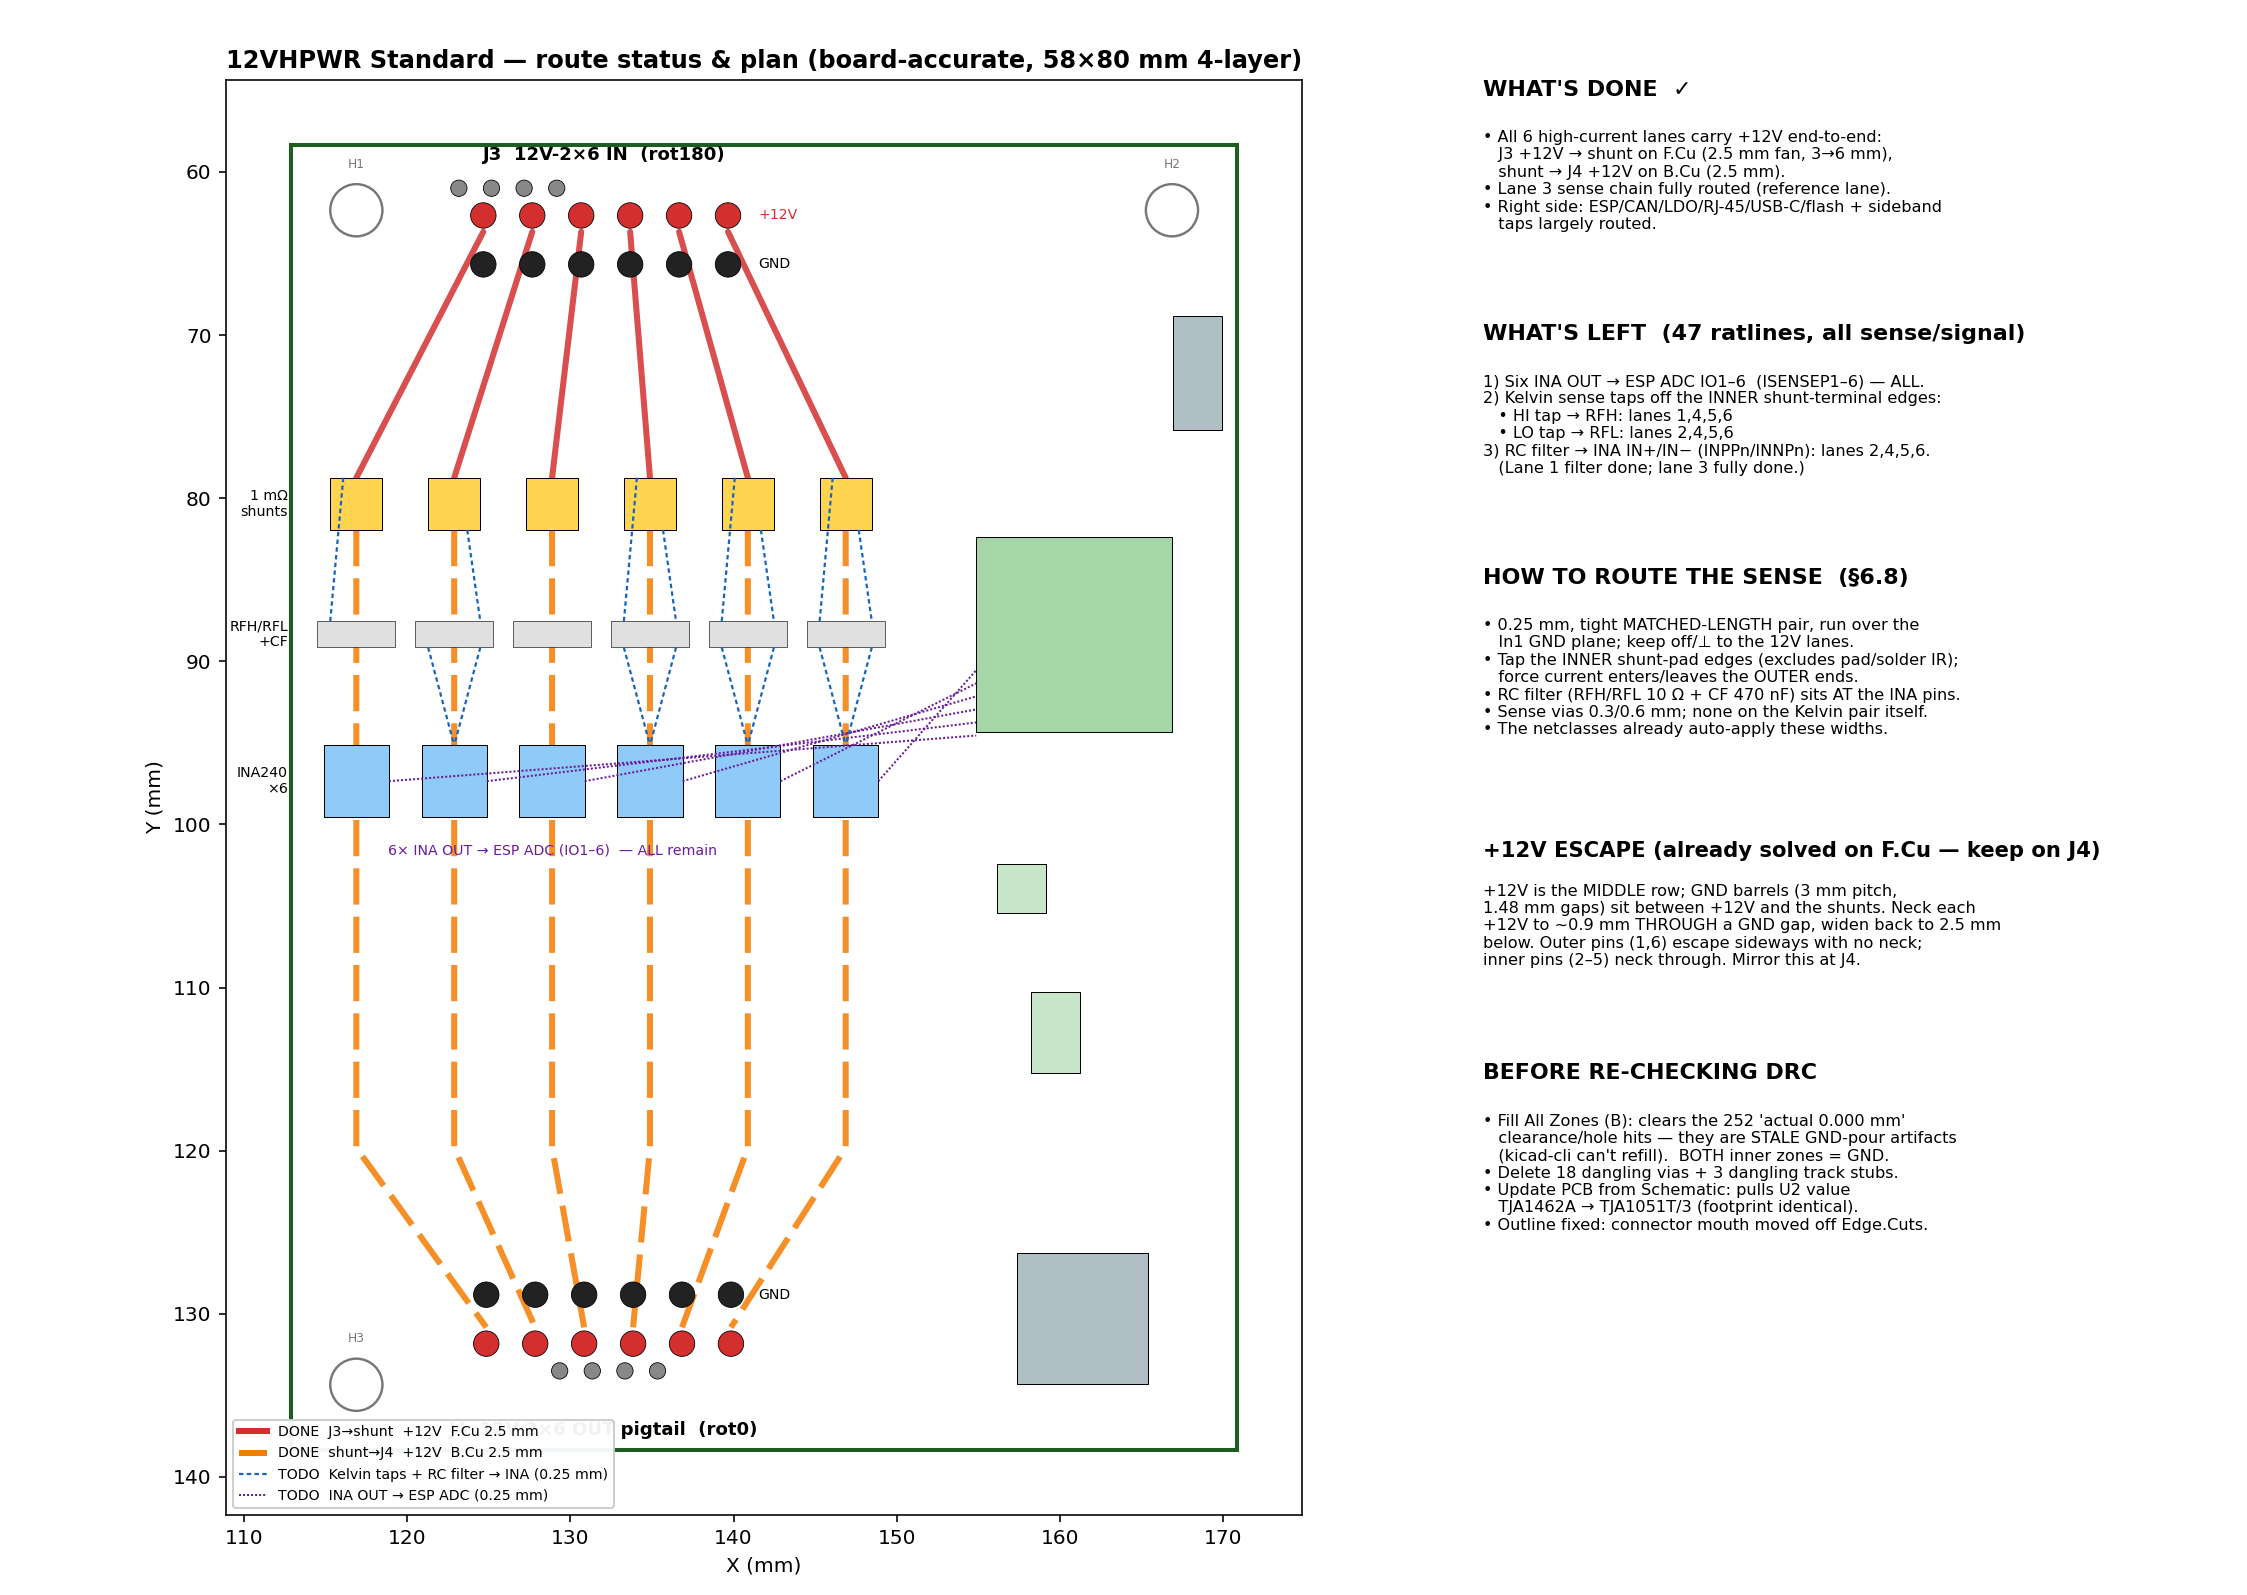
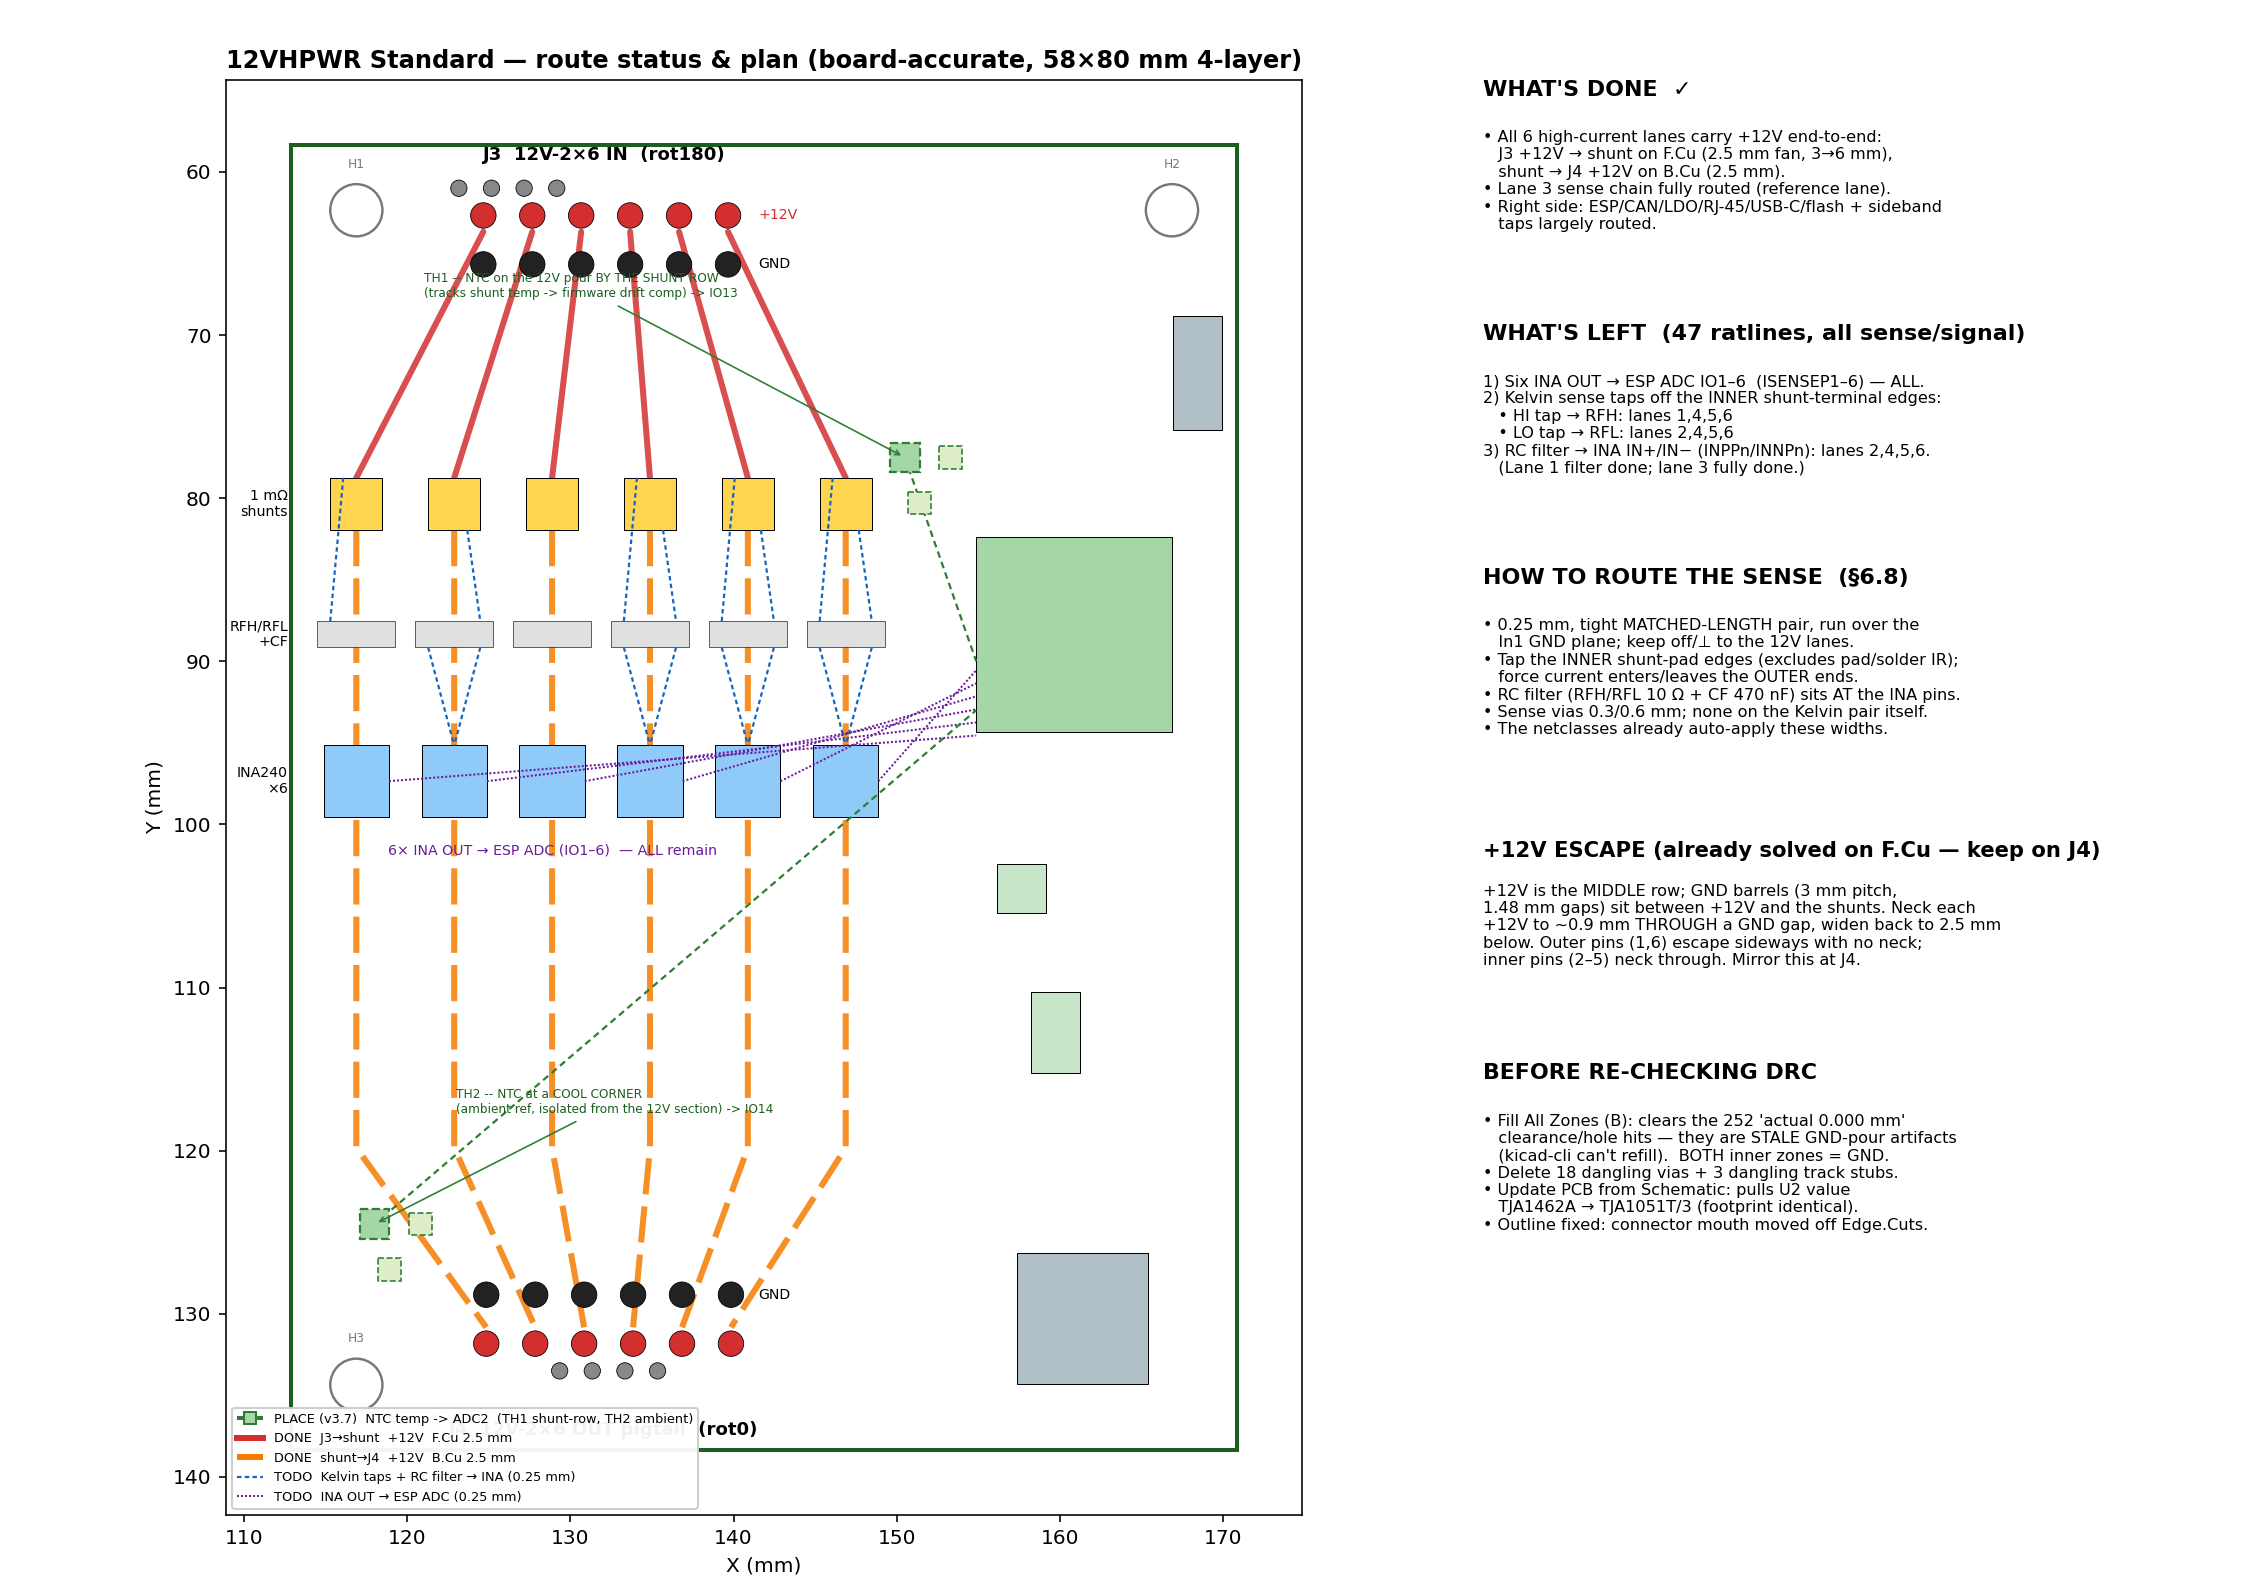
12VHPWR: add v3.7 NTC placement layer to the route/placement plan diagram
gen-hpwr-route-status.py now overlays the recommended (not-yet-placed) thermistor
placements on the plan: TH1 + R20 + C20 on the 12V pour by the shunt row (shunt-
temp drift comp) -> IO13, TH2 + R21 + C21 at a cool isolated corner (ambient) ->
IO14, with their ADC2 routes and callouts + a legend entry. Regenerated
12vhpwr-route-plan.png.

https://claude.ai/code/session_01JVK4H2BFfihS7YDieYFgcV

diff --git a/scripts/gen-hpwr-route-status.py b/scripts/gen-hpwr-route-status.py
@@ -127,7 +127,24 @@ leg=[Line2D([],[],color="#d32f2f",lw=3,label="DONE  J3→shunt  +12V  F.Cu 2.5 m
      Line2D([],[],color="#f57c00",lw=3,ls=(0,(6,2)),label="DONE  shunt→J4  +12V  B.Cu 2.5 mm"),
      Line2D([],[],color="#1565c0",lw=1.1,ls=(0,(2,1.5)),label="TODO  Kelvin taps + RC filter → INA (0.25 mm)"),
      Line2D([],[],color="#6a1b9a",lw=1.0,ls=(0,(1,1)),label="TODO  INA OUT → ESP ADC (0.25 mm)")]
-ax.legend(handles=leg,loc="lower left",fontsize=7,framealpha=.95)
+leg.insert(0, Line2D([],[],color="#2e7d32",lw=2,ls=(0,(3,2)),marker='s',mfc="#a5d6a7",mec="#2e7d32",label="PLACE (v3.7)  NTC temp -> ADC2  (TH1 shunt-row, TH2 ambient)"))
+ax.legend(handles=leg,loc="lower left",fontsize=6.4,framealpha=.95)
+
+# ---- v3.7 NTC thermistor placement plan (recommended; NOT yet on the PCB) ----
+G="#2e7d32"; ESPx=pos["U1"][0]-6.0
+def _ntc(nx, ny, ch):
+    ax.add_patch(Rectangle((nx-0.9,ny-0.9),1.8,1.8,fc="#a5d6a7",ec=G,lw=1.1,ls="--",zorder=8))   # NTC
+    ax.add_patch(Rectangle((nx+2.1,ny-0.7),1.4,1.4,fc="#dcedc8",ec=G,lw=0.8,ls="--",zorder=8))   # 10k
+    ax.add_patch(Rectangle((nx+0.2,ny+2.1),1.4,1.4,fc="#dcedc8",ec=G,lw=0.8,ls="--",zorder=8))   # 100nF
+    ax.add_line(Line2D([nx, ESPx],[ny, ch],color=G,lw=1.1,ls=(0,(3,2)),zorder=7))                 # -> ESP ADC2
+_ntc(150.5, 77.5, 90.0)     # TH1 by the shunt row -> IO13
+_ntc(118.0, 124.5, 93.0)    # TH2 ambient corner   -> IO14
+ax.annotate("TH1 -- NTC on the 12V pour BY THE SHUNT ROW\n(tracks shunt temp -> firmware drift comp) -> IO13",
+            xy=(150.5,77.5), xytext=(121,67), fontsize=6.0, color="#1b5e20", zorder=9,
+            arrowprops=dict(arrowstyle="->",color=G,lw=0.8), ha="left", va="center")
+ax.annotate("TH2 -- NTC at a COOL CORNER\n(ambient ref, isolated from the 12V section) -> IO14",
+            xy=(118,124.5), xytext=(123,117), fontsize=6.0, color="#1b5e20", zorder=9,
+            arrowprops=dict(arrowstyle="->",color=G,lw=0.8), ha="left", va="center")
 
 # ---------- notes panel ----------
 def T(y,s,**k): axn.text(0.0,y,s,va="top",fontsize=k.pop("fs",8.5),transform=axn.transAxes,**k)
